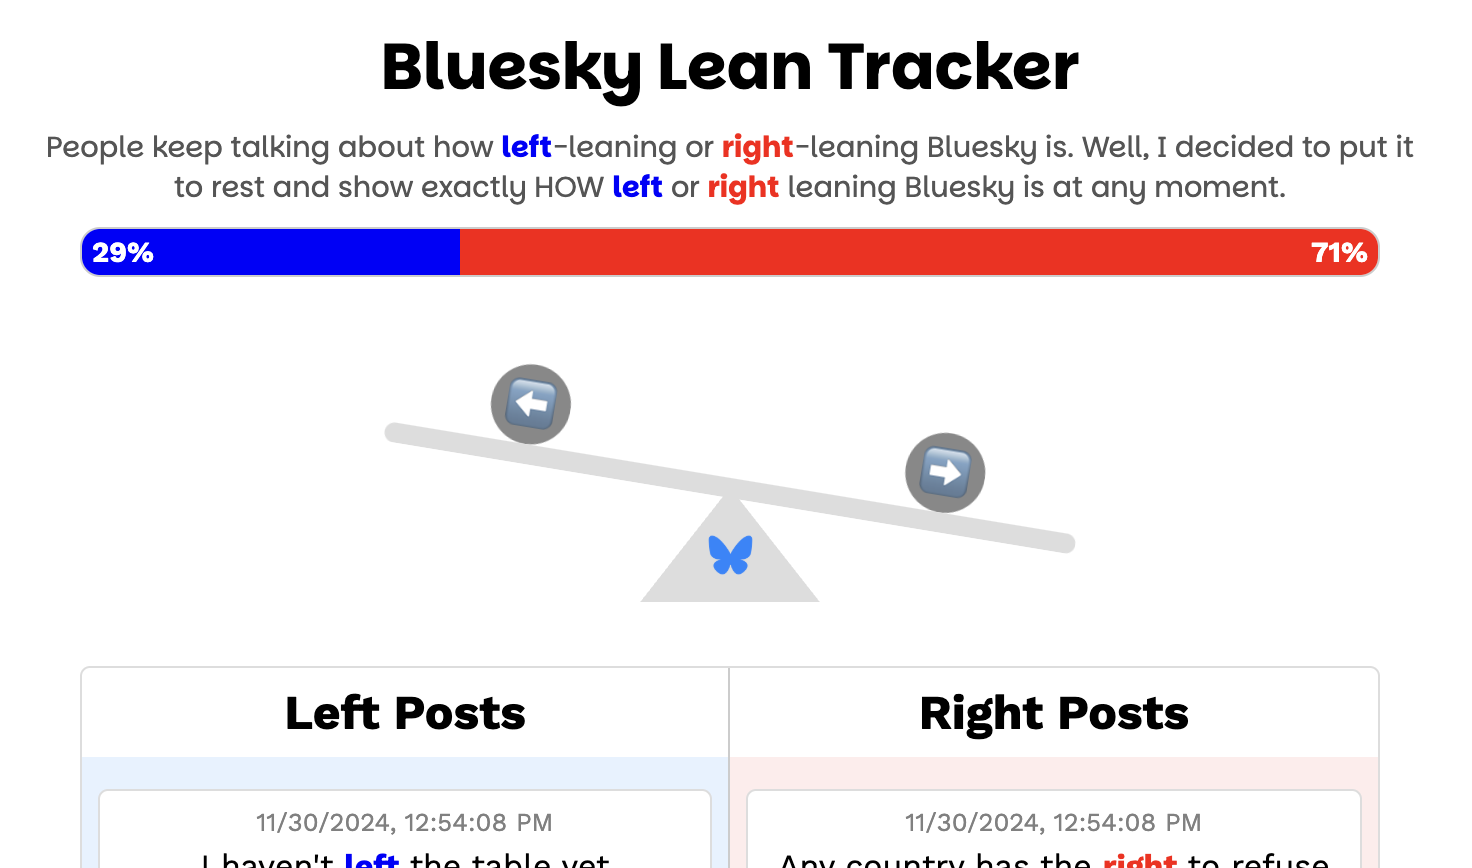
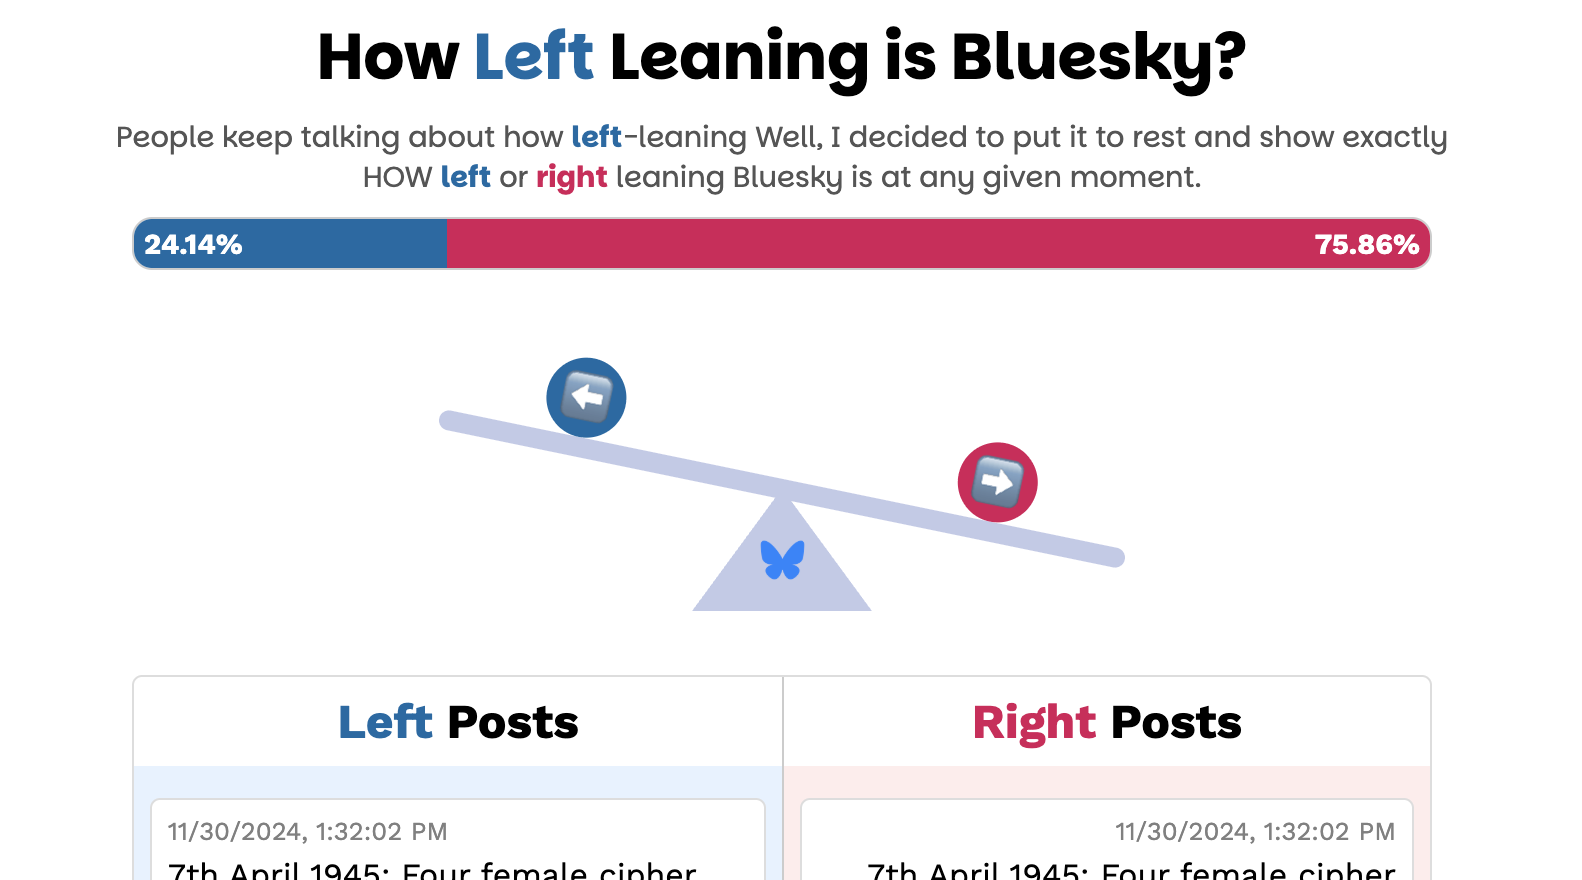
updates

diff --git a/styles.css b/styles.css
@@ -7,7 +7,7 @@
   /* Lighter shade for left background */
   --right-color-light: #ffecec;
   /* Lighter shade for right background */
-  --seesaw-color: #ddd;
+  --seesaw-color: #C2CAE8;
   /* Color for the seesaw plank and fulcrum */
   --weight-color: #888;
   /* Color for weights */
@@ -26,16 +26,16 @@ body {
   display: flex;
   flex-direction: column;
   height: 100vh;
-    font-family: "Work Sans", serif;
-      font-optical-sizing: auto;
-      font-style: normal;
-      
+  font-family: "Work Sans", serif;
+  font-optical-sizing: auto;
+  font-style: normal;
+
 }
 
 h1.marquee-title {
   font-family: "Parkinsans", sans-serif;
-    font-optical-sizing: auto;
-    font-style: normal;
+  font-optical-sizing: auto;
+  font-style: normal;
   margin: 1rem 0 0.5rem;
 }
 
@@ -49,8 +49,8 @@ h2.subtitle {
   font-weight: normal;
   color: #555;
   font-family: "Parkinsans", sans-serif;
-    font-optical-sizing: auto;
-    font-style: normal;
+  font-optical-sizing: auto;
+  font-style: normal;
 }
 
 
@@ -112,7 +112,8 @@ h2.subtitle {
 
 #seesaw {
   width: 350px;
-  height: 10px;;
+  height: 10px;
+  ;
   background-color: var(--seesaw-color);
   /* Seesaw plank */
   position: relative;
@@ -163,7 +164,7 @@ h2.subtitle {
 
 #seesaw-fulcrum {
   width: 90px;
-    height: 50%;
+  height: 50%;
   background-color: var(--seesaw-color);
   clip-path: polygon(50% 0%, 100% 100%, 0% 100%);
   position: absolute;
@@ -173,15 +174,19 @@ h2.subtitle {
   display: flex;
   justify-content: center;
   align-items: center;
+  box-shadow: 0 100px 6px rgba(0, 0, 0, 1);
+  /* Add shadow */
 }
 
 #seesaw-fulcrum img {
   width: 25%;
-  padding-top: 10px;;
+  padding-top: 10px;
+  ;
   /* Scale down the logo to fit */
   height: auto;
   /* Maintain aspect ratio */
 }
+
 
 
 
@@ -224,7 +229,7 @@ h2.subtitle {
 
 #right-posts {
   background-color: var(--right-color-light, #e6f2ff);
-    text-align: right;
+  text-align: right;
 }
 
 .left-highlight {
@@ -238,6 +243,7 @@ h2.subtitle {
 }
 
 .post {
+
   background: #fff;
   margin: 0.5rem 0;
   padding: 0.5rem;
@@ -245,6 +251,13 @@ h2.subtitle {
   border: 1px solid #ddd;
   word-wrap: break-word;
   /* Wrap long text */
+}
+
+.post {
+  opacity: 0;
+  /* Start hidden */
+  animation: fadeIn 0.5s ease forwards;
+  /* Apply fade-in animation */
 }
 
 .post .meta {
@@ -264,6 +277,12 @@ h2.subtitle {
 
 /* Animations */
 @keyframes fadeIn {
+  from {
+    opacity: 0;
+    transform: translateY(10px);
+    /* Slide up a little */
+  }
+
   to {
     opacity: 1;
     transform: translateY(0);
@@ -316,29 +335,50 @@ h2.subtitle {
 @media screen and (max-width: 480px) {
   /* body {
     font-size: 14px;
+  } */
+
+  h1 {
+    font-size: 1.5em;
+  }
+
+  h2.subtitle {
+    margin-left: 10px;
+    margin-right: 10px;
+    font-size: .8rem;
   }
 
   #bar-container {
-    height: 15px;
+    height: 40px;
   }
 
   #seesaw {
-    width: 200px;
+    width: 300px;
     height: 8px;
   }
 
   #left-weight,
   #right-weight {
-    width: 25px;
-    height: 25px;
-    font-size: 0.8rem;
+
+    font-size: 1.3rem;
   }
 
-  #posts-container {
+  /* #posts-container {
     height: 30%;
+  } */
+
+  .post .content {
+    font-size: 0.6rem;
   }
 
-  .post {
-    font-size: 0.75rem;
-  } */
+  .post .meta {
+    font-size: 0.5rem;
+    color: gray;
+    margin-bottom: 0.3rem;
+  }
+
+  .posts-column h2{
+    font-size: 1.3em;
+  }
+
+
 }

diff --git a/index.html b/index.html
@@ -35,9 +35,9 @@
 </head>
 
 <body>
-  <h1 class="marquee-title">Bluesky Lean Tracker</h1>
-  <h2 class="subtitle">People keep talking about how <span class="left-highlight">left</span>-leaning or <span class="right-highlight">right</span>-leaning Bluesky is. 
-    Well, I decided to put it to rest and show exactly HOW <span class="left-highlight">left</span> or <span class="right-highlight">right</span> leaning Bluesky is at any moment. </h2>
+  <h1 class="marquee-title">How <span class="left-highlight">Left</span> Leaning is Bluesky?</h1>
+  <h2 class="subtitle">People keep talking about how <span class="left-highlight">left</span>-leaning Bluesky is.
+    Well, I decided to put it to rest and show exactly HOW <span class="left-highlight">left</span> or <span class="right-highlight">right</span> leaning Bluesky is at any given moment. </h2>
 
   <div id="bar-container">
     <div id="left-bar">
